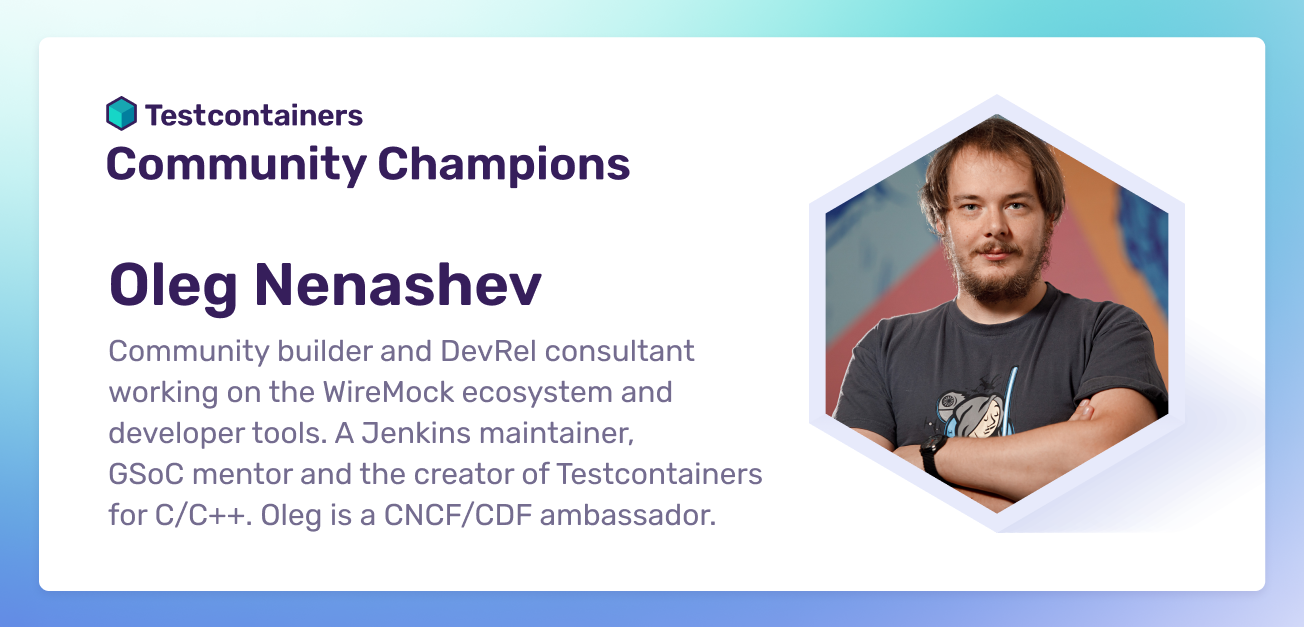
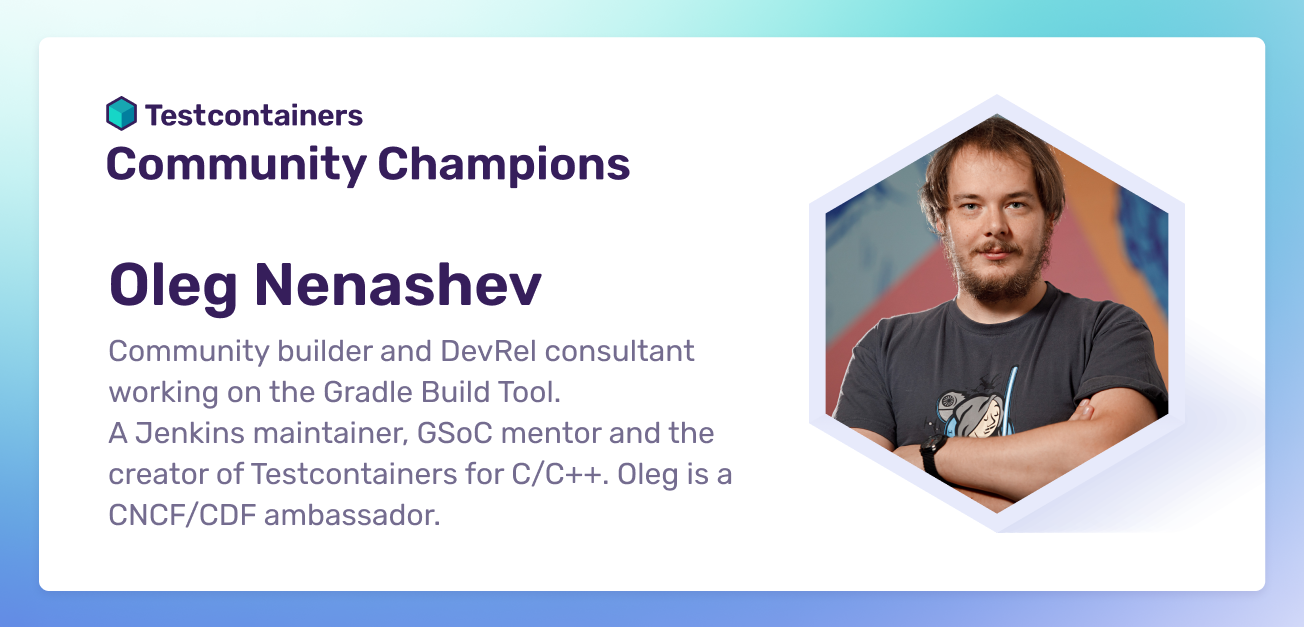
Update champion Oleg Nenashev role from Wiremock to Gradle (#194)
* Update champion Oleg Nenashev role from Wiremock to Gradle

* Update oleg-nenashev-share.png

Changed region(s): [[0.0613, 0.6061, 0.5828, 0.8485], [0.7362, 0.303, 0.7975, 0.3333], [0.7362, 0.3939, 0.7669, 0.4242]]

diff --git a/content/community-champions/oleg-nenashev.md b/content/community-champions/oleg-nenashev.md
@@ -1,6 +1,6 @@
 ---
 title: Oleg Nenashev
-role: WireMock Inc
+role: Gradle
 country: CH
 languages:
   - dotnet
@@ -18,7 +18,7 @@ socialLinks:
     url: https://sessionize.com/onenashev/
 ---
 ## Bio
-Oleg is a community builder and DevRel consultant working on the WireMock ecosystem and developer tools. He's passionate about developer experience, open source software and open hardware. Oleg is a Jenkins maintainer, GSoC mentor and  the creator of Testcontainers for C/C++. He is a CNCF/CDF ambassador. Oleg has a PhD degree in electronics design and volunteers in organizations helping Ukrainian military and refugees.
+Oleg is a community builder and DevRel consultant working on the Gradle Build Tool. He's passionate about developer experience, open source software and open hardware. Oleg is a Jenkins maintainer, GSoC mentor and  the creator of Testcontainers for C/C++. He is a CNCF/CDF ambassador. Oleg has a PhD degree in electronics design and volunteers in organizations helping Ukrainian military and refugees.
 
 ## Q&A
 ### What were your first experiences with Testcontainers?
